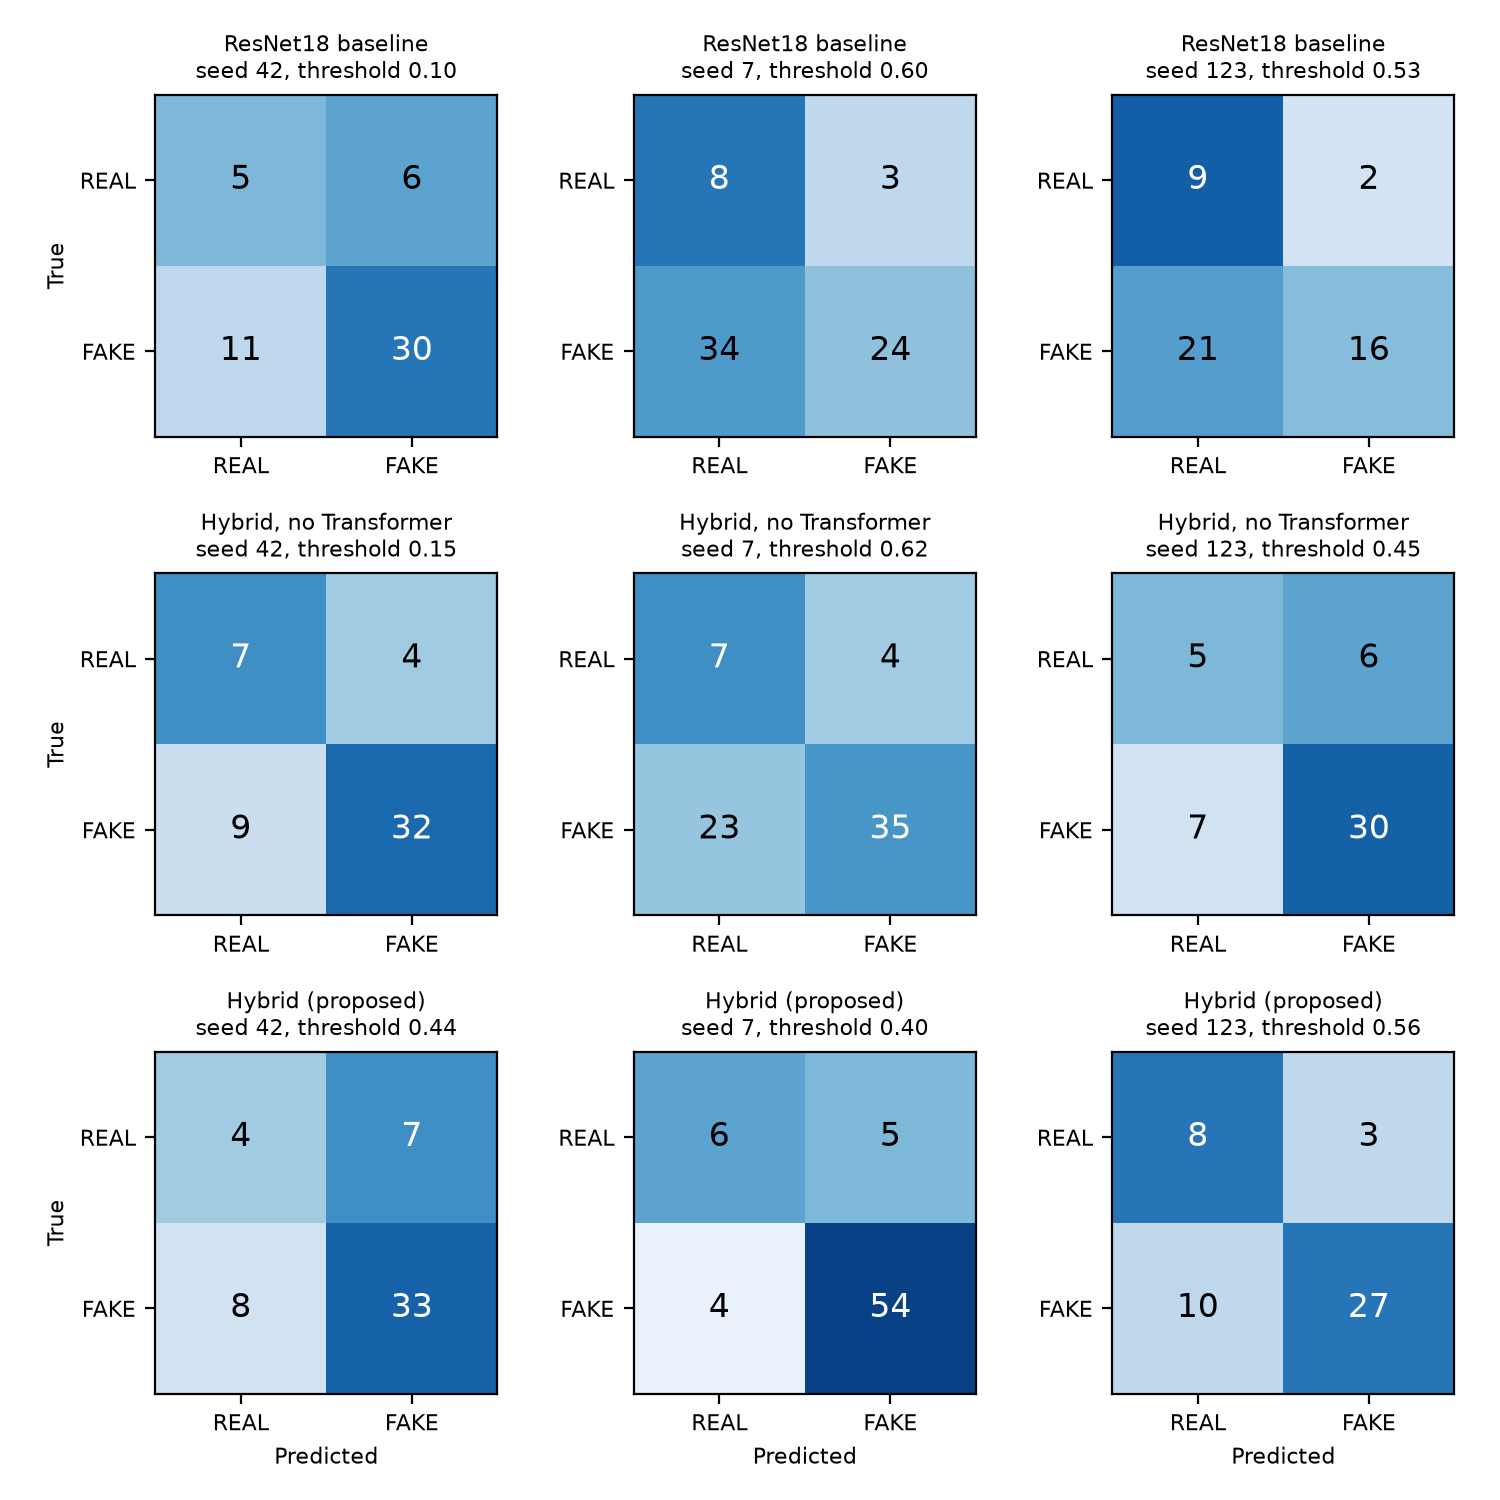
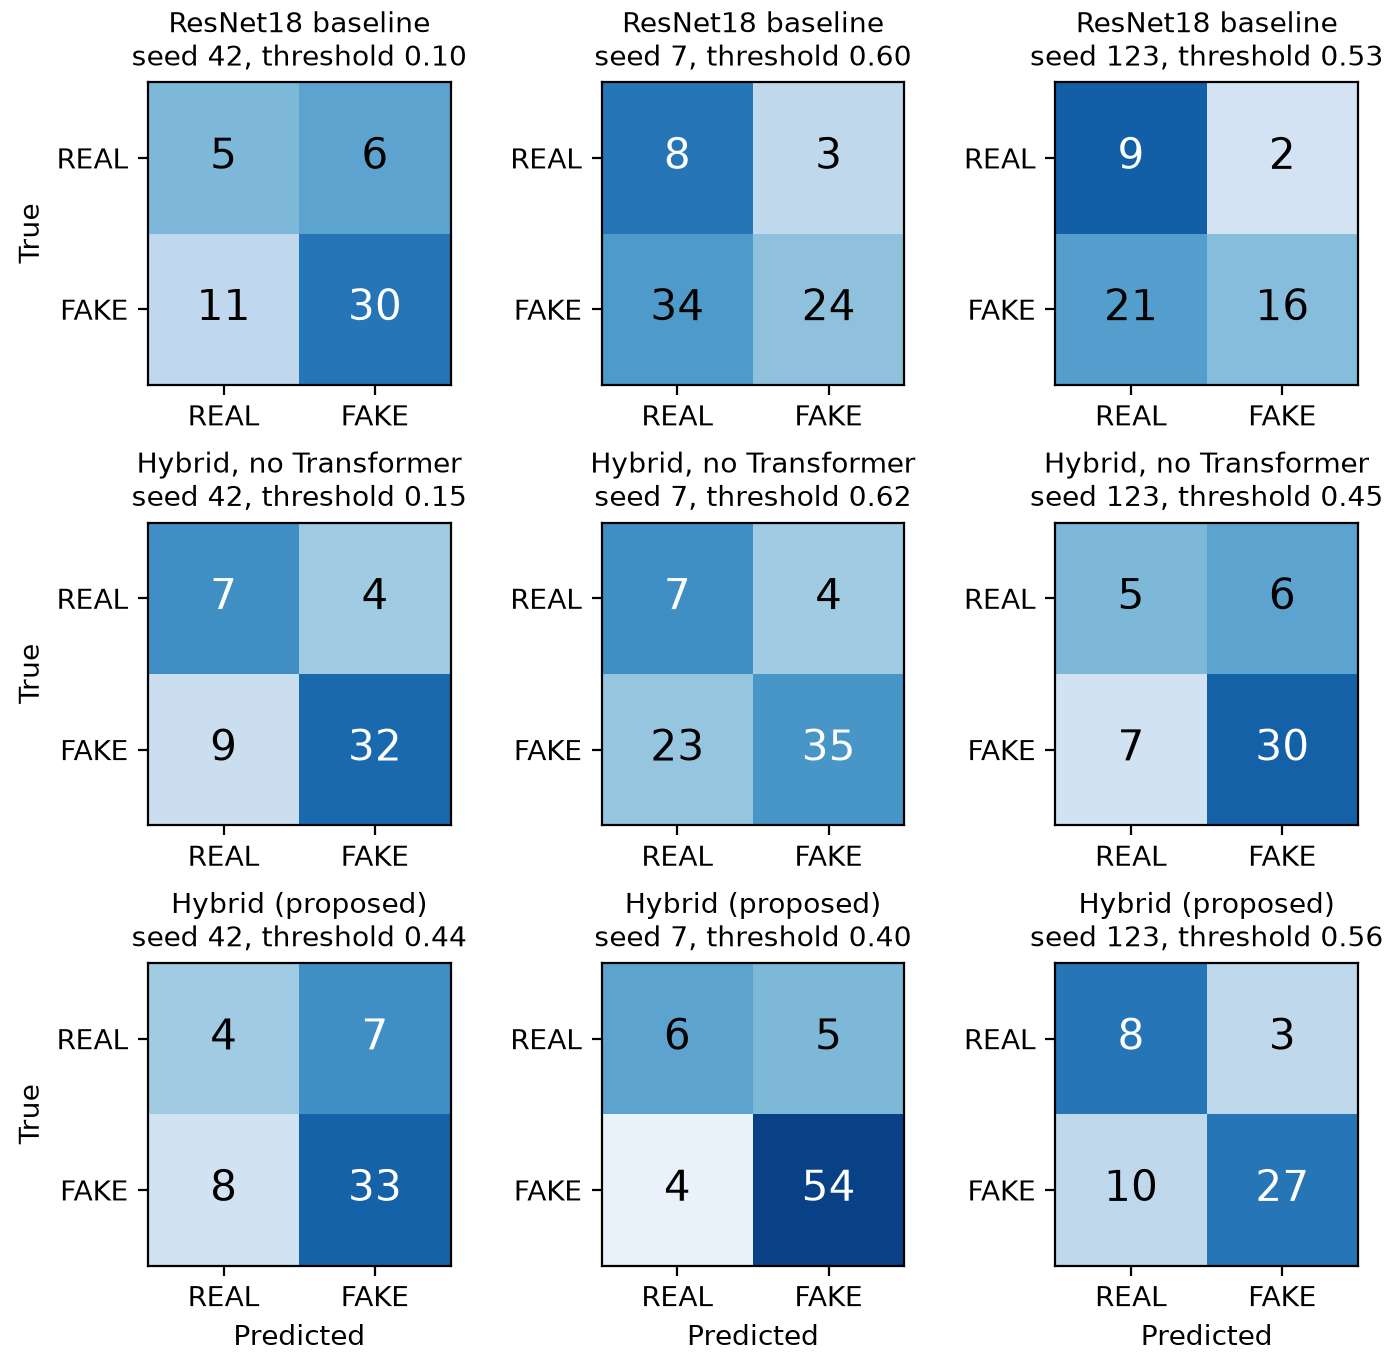
Make evaluation figures readable at paper size
Larger fonts, shorter ROC legend labels so the legend no longer covers the
curves, and a constrained layout so confusion-matrix titles are not clipped.

diff --git a/paper/figures/make_eval_figures.py b/paper/figures/make_eval_figures.py
@@ -22,11 +22,14 @@ EVAL = "runs/eval"
 OUT = os.path.dirname(os.path.abspath(__file__))
 SEEDS = [42, 7, 123]
 # Seed 42 uses the 5-epoch baseline so every model shares the same training budget.
-MODELS = [
-    ("ResNet18 baseline", {42: "dfdc_baseline_5ep", 7: "dfdc_baseline_s7", 123: "dfdc_baseline_s123"}, "tab:red"),
-    ("Hybrid, no Transformer", {42: "dfdc_hybrid_notemporal", 7: "dfdc_hybrid_notemporal_s7",
-                                123: "dfdc_hybrid_notemporal_s123"}, "tab:green"),
-    ("Hybrid (proposed)", {42: "dfdc_hybrid", 7: "dfdc_hybrid_s7", 123: "dfdc_hybrid_s123"}, "tab:blue"),
+MODELS = [  # (name, short legend name, runs per seed, colour)
+    ("ResNet18 baseline", "Baseline",
+     {42: "dfdc_baseline_5ep", 7: "dfdc_baseline_s7", 123: "dfdc_baseline_s123"}, "tab:red"),
+    ("Hybrid, no Transformer", "No Transformer",
+     {42: "dfdc_hybrid_notemporal", 7: "dfdc_hybrid_notemporal_s7", 123: "dfdc_hybrid_notemporal_s123"},
+     "tab:green"),
+    ("Hybrid (proposed)", "Hybrid",
+     {42: "dfdc_hybrid", 7: "dfdc_hybrid_s7", 123: "dfdc_hybrid_s123"}, "tab:blue"),
 ]
 
 
@@ -40,29 +43,29 @@ def load(run, suffix=""):
 
 
 def roc_figure():
-    fig, axes = plt.subplots(1, len(SEEDS), figsize=(10.5, 3.9), sharey=True, layout="constrained")
+    fig, axes = plt.subplots(1, len(SEEDS), figsize=(9.5, 3.7), sharey=True, layout="constrained")
     for ax, seed in zip(axes, SEEDS):
         n = None
-        for name, runs, colour in MODELS:
+        for _, short, runs, colour in MODELS:
             m = load(runs[seed])
             if m is None:
                 continue
             fpr, tpr, _ = roc_curve([p["label"] for p in m["predictions"]],
                                     [p["fake_probability"] for p in m["predictions"]])
-            ax.plot(fpr, tpr, color=colour, lw=1.8, label=f"{name} (AUC {m['roc_auc']:.3f})")
+            ax.plot(fpr, tpr, color=colour, lw=1.8, label=f"{short} {m['roc_auc']:.3f}")
             n = m["support"]
         ax.plot([0, 1], [0, 1], color="grey", lw=1, ls="--")
         title = f"Seed {seed}" + (f" ({n['real']} real, {n['fake']} fake)" if n else "")
         ax.set(title=title, xlabel="False positive rate", xlim=(0, 1), ylim=(0, 1.02), aspect="equal")
-        ax.legend(loc="lower right", fontsize=7)
+        ax.legend(loc="lower right", fontsize=8.5, title="ROC-AUC", title_fontsize=8.5)
     axes[0].set_ylabel("True positive rate")
     fig.savefig(os.path.join(OUT, "roc_curves.png"), dpi=200)
     plt.close(fig)
 
 
 def confusion_figure():
-    fig, axes = plt.subplots(len(MODELS), len(SEEDS), figsize=(7.5, 7.5))
-    for row, (name, runs, _) in enumerate(MODELS):
+    fig, axes = plt.subplots(len(MODELS), len(SEEDS), figsize=(7.0, 6.8), layout="constrained")
+    for row, (name, _, runs, _) in enumerate(MODELS):
         for col, seed in enumerate(SEEDS):
             ax = axes[row, col]
             m = load(runs[seed], "_valthr")
@@ -76,16 +79,15 @@ def confusion_figure():
             ax.imshow(share, cmap="Blues", vmin=0, vmax=1)
             for i in range(2):
                 for j in range(2):
-                    ax.text(j, i, grid[i][j], ha="center", va="center", fontsize=12,
+                    ax.text(j, i, grid[i][j], ha="center", va="center", fontsize=15,
                             color="white" if share[i][j] > 0.6 else "black")
-            ax.set_xticks([0, 1], ["REAL", "FAKE"], fontsize=8)
-            ax.set_yticks([0, 1], ["REAL", "FAKE"], fontsize=8)
-            ax.set_title(f"{name}\nseed {seed}, threshold {m['threshold']:.2f}", fontsize=8)
+            ax.set_xticks([0, 1], ["REAL", "FAKE"], fontsize=10)
+            ax.set_yticks([0, 1], ["REAL", "FAKE"], fontsize=10)
+            ax.set_title(f"{name}\nseed {seed}, threshold {m['threshold']:.2f}", fontsize=10)
             if row == len(MODELS) - 1:
-                ax.set_xlabel("Predicted", fontsize=8)
+                ax.set_xlabel("Predicted", fontsize=10)
             if col == 0:
-                ax.set_ylabel("True", fontsize=8)
-    fig.tight_layout()
+                ax.set_ylabel("True", fontsize=10)
     fig.savefig(os.path.join(OUT, "confusion_matrices.png"), dpi=200)
     plt.close(fig)
 
